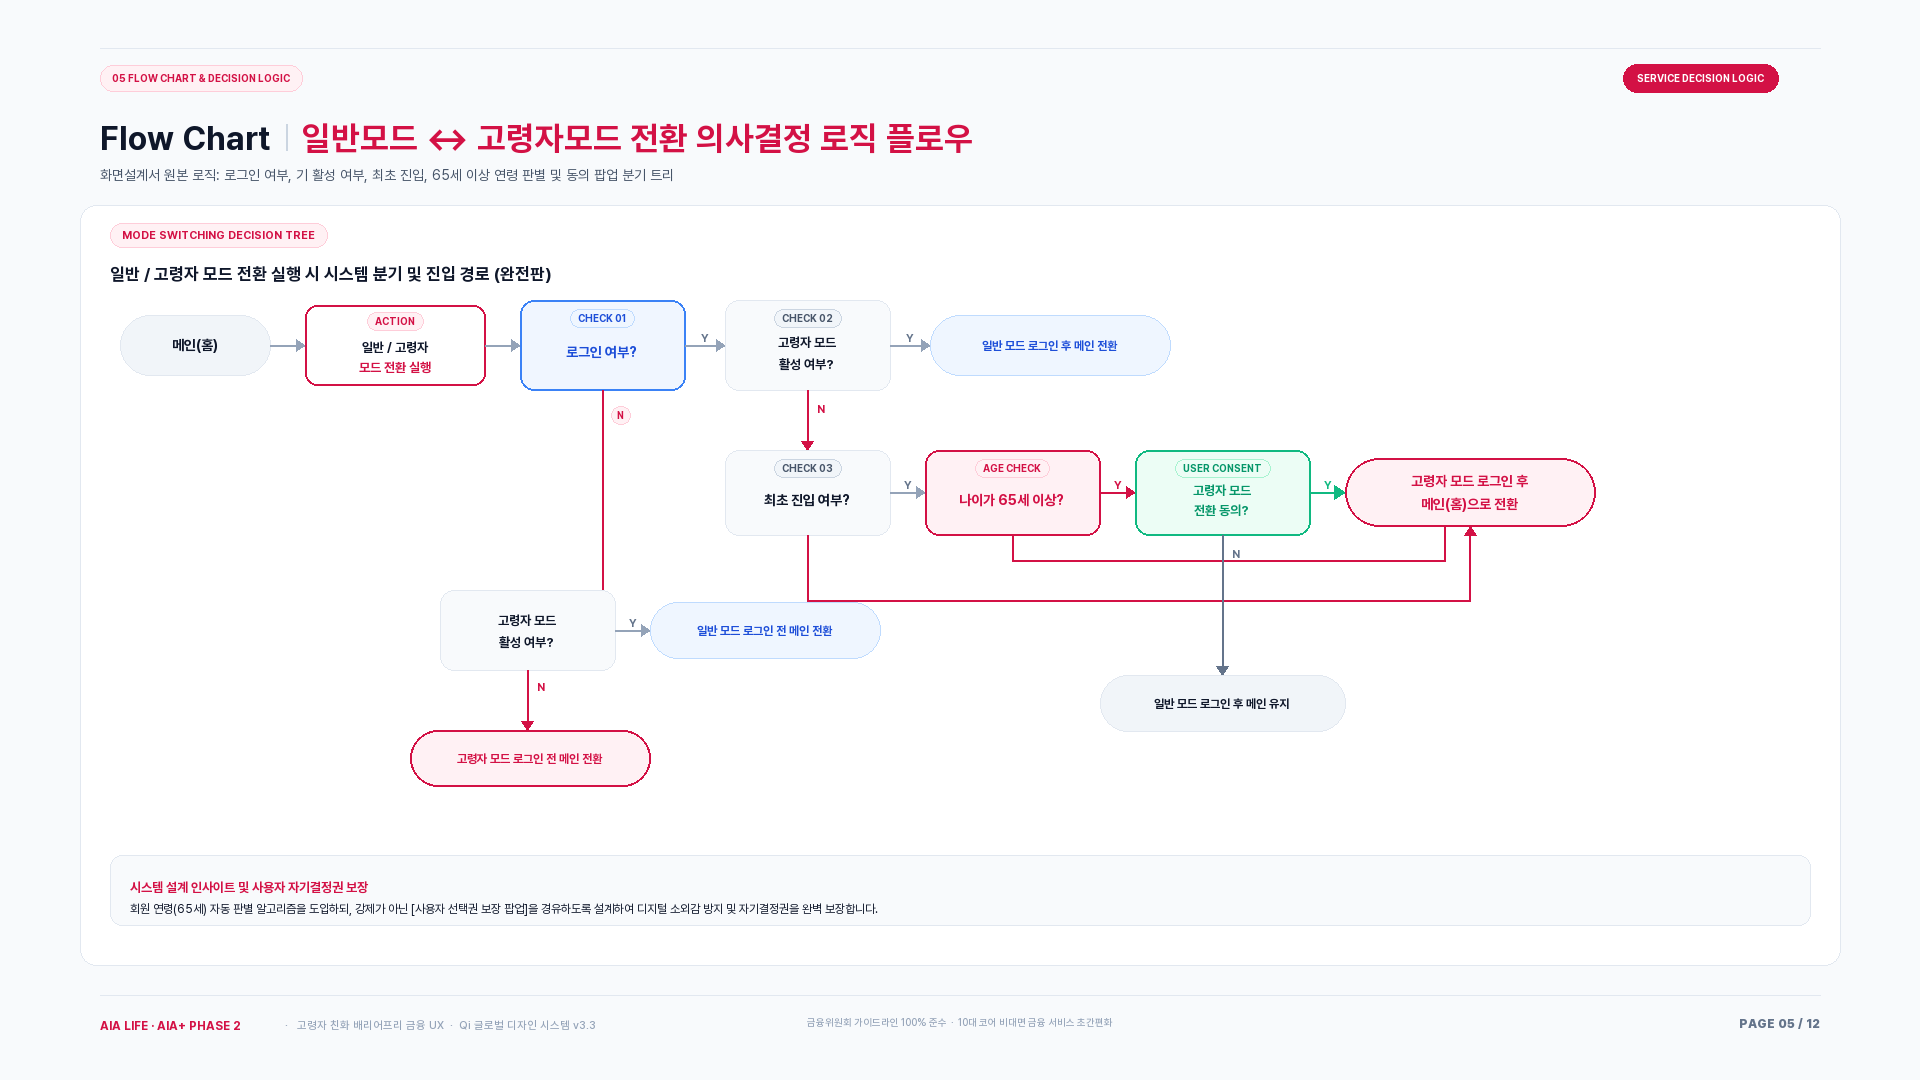
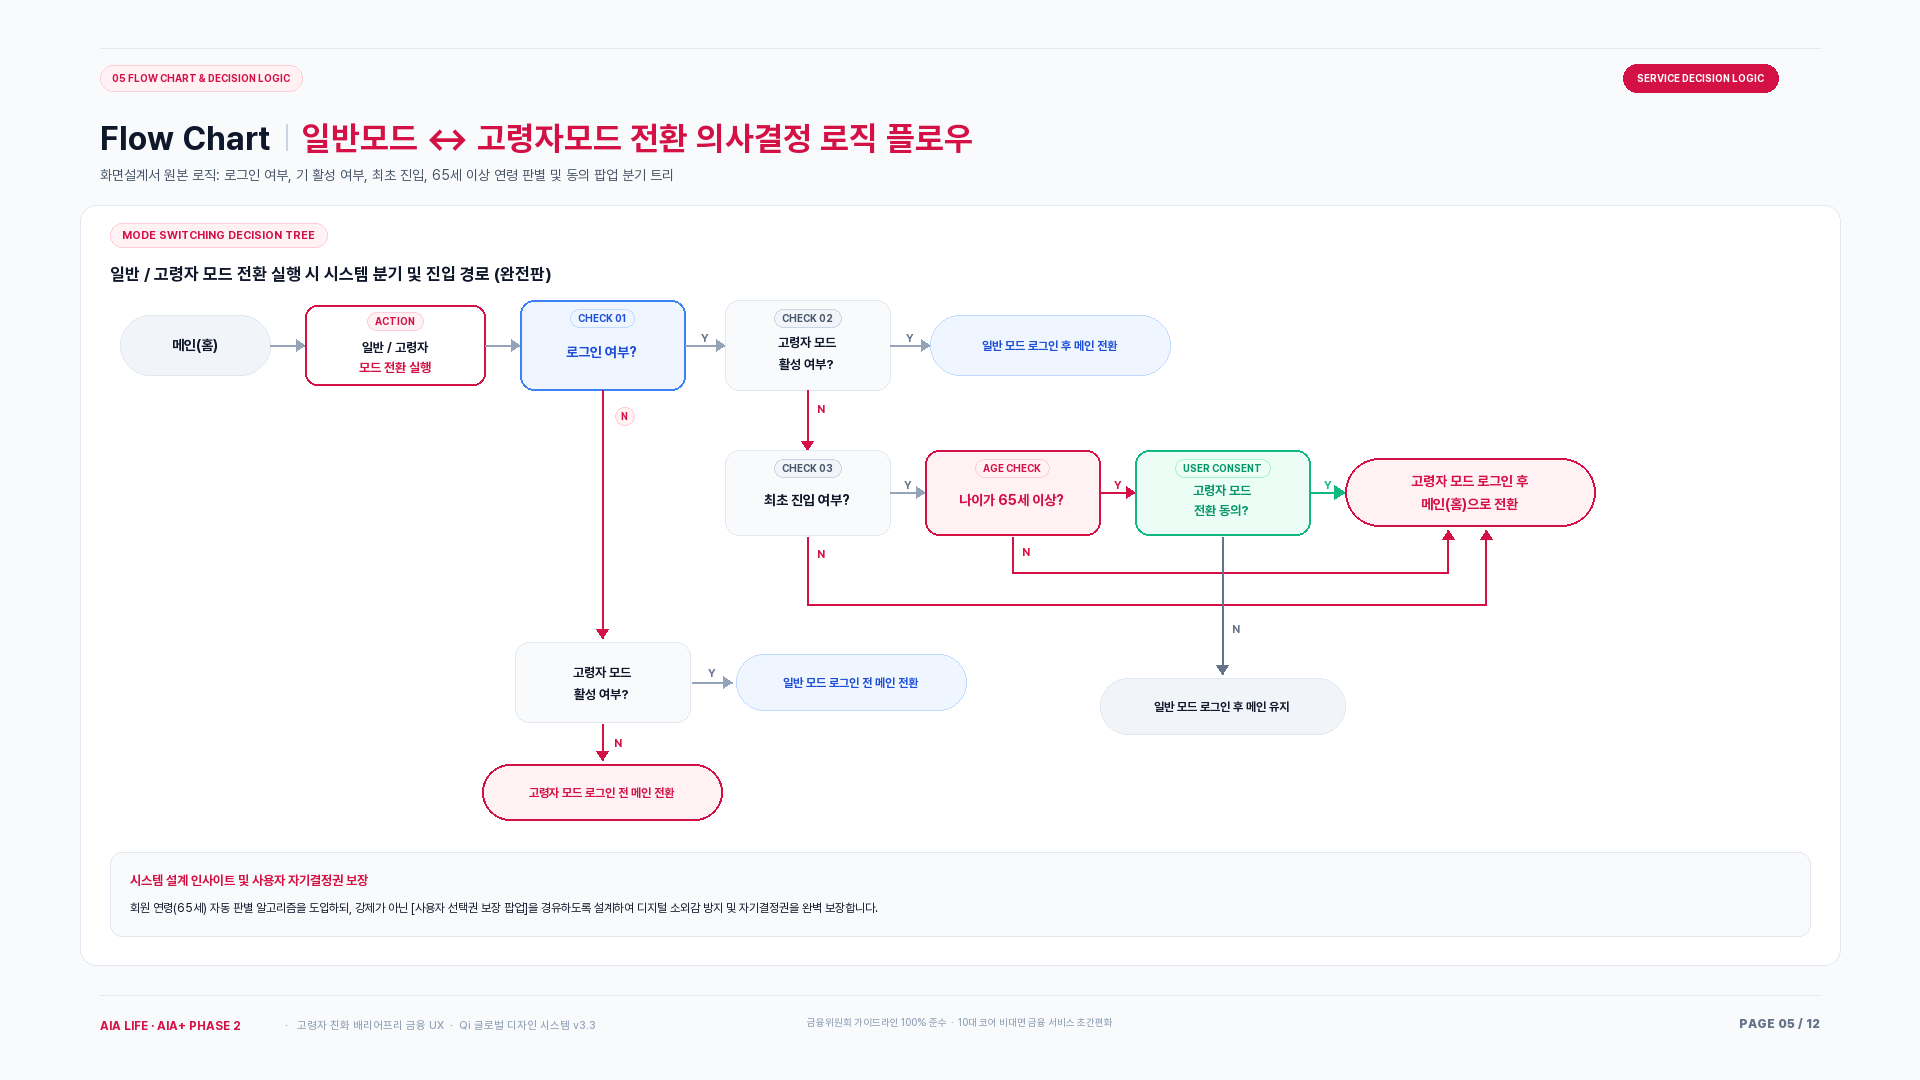
fix: add clean clearance to all flowchart connector lines and balance bottom box padding on AIA+ slide 05

diff --git a/aia_phase2/deck_slides_05_08.py b/aia_phase2/deck_slides_05_08.py
@@ -54,28 +54,30 @@ def make_slide_05():
     draw_pill_badge(draw, cx=d1_x + d1_w//2, cy=d1_y + 18, text="CHECK 01", font=get_font(9.5, 'bold'), theme='blue', pad_x=8, height=18)
     draw.text((d1_x + d1_w//2, d1_y + 52), "로그인 여부?", font=get_font(14.5, 'bold'), fill=(29, 78, 216), anchor='mm')
     
-    # PATH A: 비로그인 분기
-    draw.line([(d1_x + d1_w//2, d1_y + d1_h), (d1_x + d1_w//2, 630)], fill=AIA_RED, width=2)
-    draw_arrow(draw, (d1_x + d1_w//2, 630), (520, 630), col=AIA_RED, width=2, arrow_size=6)
-    draw_pill_badge(draw, cx=d1_x + d1_w//2 + 18, cy=d1_y + d1_h + 25, text="N", font=get_font(10, 'bold'), theme='red', pad_x=6, height=18)
-    
-    d1n_x, d1n_y, d1n_w, d1n_h = 440, 590, 175, 80
+    # PATH A: 비로그인 분기 (centered directly under CHECK 01 with generous clearance)
+    d1_cx = d1_x + d1_w // 2
+    d1n_w, d1n_h = 175, 80
+    d1n_x, d1n_y = d1_cx - d1n_w // 2, 642
+
+    draw_arrow(draw, (d1_cx, d1_y + d1_h), (d1_cx, d1n_y - 4), col=AIA_RED, width=2, arrow_size=6)
+    draw_pill_badge(draw, cx=d1_cx + 22, cy=d1_y + d1_h + 26, text="N", font=get_font(10, 'bold'), theme='red', pad_x=6, height=18)
+
     draw.rounded_rectangle([d1n_x, d1n_y, d1n_x + d1n_w, d1n_y + d1n_h], radius=14, fill=(248, 250, 252), outline=BORDER_LIGHT, width=1)
     draw.text((d1n_x + d1n_w//2, d1n_y + 30), "고령자 모드", font=get_font(13, 'bold'), fill=TEXT_LIGHT_MAIN, anchor='mm')
     draw.text((d1n_x + d1n_w//2, d1n_y + 52), "활성 여부?", font=get_font(13, 'bold'), fill=TEXT_LIGHT_MAIN, anchor='mm')
-    
-    draw_arrow(draw, (d1n_x + d1n_w, d1n_y + d1n_h//2), (d1n_x + d1n_w + 35, d1n_y + d1n_h//2), col=(148, 163, 184), width=2, arrow_size=6)
-    draw.text((d1n_x + d1n_w + 14, d1n_y + d1n_h//2 - 14), "Y", font=get_font(11, 'bold'), fill=(100, 116, 139))
-    
-    out1_x, out1_y, out1_w, out1_h = d1n_x + d1n_w + 35, 602, 230, 56
+
+    draw_arrow(draw, (d1n_x + d1n_w + 2, d1n_y + d1n_h//2), (d1n_x + d1n_w + 42, d1n_y + d1n_h//2), col=(148, 163, 184), width=2, arrow_size=6)
+    draw.text((d1n_x + d1n_w + 18, d1n_y + d1n_h//2 - 16), "Y", font=get_font(11, 'bold'), fill=(100, 116, 139))
+
+    out1_x, out1_y, out1_w, out1_h = d1n_x + d1n_w + 46, d1n_y + 12, 230, 56
     draw.rounded_rectangle([out1_x, out1_y, out1_x + out1_w, out1_y + out1_h], radius=28, fill=(239, 246, 255), outline=(191, 219, 254), width=1)
     draw.text((out1_x + out1_w//2, out1_y + out1_h//2), "일반 모드 로그인 전 메인 전환", font=get_font(12, 'bold'), fill=(29, 78, 216), anchor='mm')
-    
-    draw.line([(d1n_x + d1n_w//2, d1n_y + d1n_h), (d1n_x + d1n_w//2, 715)], fill=AIA_RED, width=2)
-    draw_arrow(draw, (d1n_x + d1n_w//2, 715), (d1n_x + d1n_w//2, 730), col=AIA_RED, width=2, arrow_size=6)
-    draw.text((d1n_x + d1n_w//2 + 10, d1n_y + d1n_h + 10), "N", font=get_font(11, 'bold'), fill=AIA_RED)
-    
-    out2_x, out2_y, out2_w, out2_h = d1n_x - 30, 730, 240, 56
+
+    out2_w, out2_h = 240, 56
+    out2_x, out2_y = d1_cx - out2_w // 2, 764
+    draw_arrow(draw, (d1_cx, d1n_y + d1n_h + 2), (d1_cx, out2_y - 4), col=AIA_RED, width=2, arrow_size=6)
+    draw.text((d1_cx + 12, d1n_y + d1n_h + 14), "N", font=get_font(11, 'bold'), fill=AIA_RED)
+
     draw.rounded_rectangle([out2_x, out2_y, out2_x + out2_w, out2_y + out2_h], radius=28, fill=(255, 241, 244), outline=AIA_RED, width=2)
     draw.text((out2_x + out2_w//2, out2_y + out2_h//2), "고령자 모드 로그인 전 메인 전환", font=get_font(12, 'bold'), fill=AIA_RED, anchor='mm')
     
@@ -130,27 +132,37 @@ def make_slide_05():
     draw.text((goal_x + goal_w//2, goal_y + 23), "고령자 모드 로그인 후", font=get_font(13.5, 'bold'), fill=AIA_RED, anchor='mm')
     draw.text((goal_x + goal_w//2, goal_y + 46), "메인(홈)으로 전환", font=get_font(13.5, 'bold'), fill=AIA_RED, anchor='mm')
     
-    draw.line([(d3_x + d3_w//2, d3_y + d3_h), (d3_x + d3_w//2, 600)], fill=AIA_RED, width=2)
-    draw.line([(d3_x + d3_w//2, 600), (goal_x + goal_w//2, 600)], fill=AIA_RED, width=2)
-    draw_arrow(draw, (goal_x + goal_w//2, 600), (goal_x + goal_w//2, goal_y + goal_h), col=AIA_RED, width=2, arrow_size=6)
-    
-    draw.line([(d4_x + d4_w//2, d4_y + d4_h), (d4_x + d4_w//2, 560)], fill=AIA_RED, width=2)
-    draw.line([(d4_x + d4_w//2, 560), (goal_x + goal_w//2 - 25, 560)], fill=AIA_RED, width=2)
-    draw.line([(goal_x + goal_w//2 - 25, 560), (goal_x + goal_w//2 - 25, goal_y + goal_h)], fill=AIA_RED, width=2)
-    
-    draw.line([(d5_x + d5_w//2, d5_y + d5_h), (d5_x + d5_w//2, 660)], fill=(100, 116, 139), width=2)
-    draw_arrow(draw, (d5_x + d5_w//2, 660), (d5_x + d5_w//2, 675), col=(100, 116, 139), width=2, arrow_size=6)
-    draw.text((d5_x + d5_w//2 + 10, d5_y + d5_h + 12), "N", font=get_font(11, 'bold'), fill=(100, 116, 139))
-    
-    stay_x, stay_y, stay_w, stay_h = d5_x - 35, 675, 245, 56
+    # Return flow lines with clean vertical spacing away from all nodes
+    ret1_y = 572
+    ret2_y = 604
+
+    # CHECK 03 (N) -> Goal
+    draw.line([(d3_x + d3_w//2, d3_y + d3_h + 2), (d3_x + d3_w//2, ret2_y)], fill=AIA_RED, width=2)
+    draw.line([(d3_x + d3_w//2, ret2_y), (goal_x + goal_w//2 + 16, ret2_y)], fill=AIA_RED, width=2)
+    draw_arrow(draw, (goal_x + goal_w//2 + 16, ret2_y), (goal_x + goal_w//2 + 16, goal_y + goal_h + 4), col=AIA_RED, width=2, arrow_size=6)
+    draw.text((d3_x + d3_w//2 + 10, d3_y + d3_h + 12), "N", font=get_font(11, 'bold'), fill=AIA_RED)
+
+    # AGE CHECK (N) -> Goal
+    draw.line([(d4_x + d4_w//2, d4_y + d4_h + 2), (d4_x + d4_w//2, ret1_y)], fill=AIA_RED, width=2)
+    draw.line([(d4_x + d4_w//2, ret1_y), (goal_x + goal_w//2 - 22, ret1_y)], fill=AIA_RED, width=2)
+    draw_arrow(draw, (goal_x + goal_w//2 - 22, ret1_y), (goal_x + goal_w//2 - 22, goal_y + goal_h + 4), col=AIA_RED, width=2, arrow_size=6)
+    draw.text((d4_x + d4_w//2 + 10, d4_y + d4_h + 10), "N", font=get_font(11, 'bold'), fill=AIA_RED)
+
+    # USER CONSENT (N) -> Stay in general mode (cleanly below return lines)
+    stay_x, stay_y, stay_w, stay_h = d5_x - 35, 678, 245, 56
+    draw_arrow(draw, (d5_x + d5_w//2, d5_y + d5_h + 2), (d5_x + d5_w//2, stay_y - 4), col=(100, 116, 139), width=2, arrow_size=6)
+    draw.text((d5_x + d5_w//2 + 10, ret2_y + 18), "N", font=get_font(11, 'bold'), fill=(100, 116, 139))
+
     draw.rounded_rectangle([stay_x, stay_y, stay_x + stay_w, stay_y + stay_h], radius=28, fill=(241, 245, 249), outline=BORDER_LIGHT, width=1)
     draw.text((stay_x + stay_w//2, stay_y + stay_h//2), "일반 모드 로그인 후 메인 유지", font=get_font(12.5, 'bold'), fill=TEXT_LIGHT_MAIN, anchor='mm')
-    
-    sum_y = 855
-    draw.rounded_rectangle([card_x + 30, sum_y, card_x + card_w - 30, sum_y + 70], radius=12, fill=(248, 250, 252), outline=BORDER_LIGHT, width=1)
-    draw.text((card_x + 50, sum_y + 24), "시스템 설계 인사이트 및 사용자 자기결정권 보장", font=get_font(13, 'bold'), fill=AIA_RED)
+
+    # Bottom Summary Box with balanced top/bottom padding
+    sum_y = 852
+    sum_h = 84
+    draw.rounded_rectangle([card_x + 30, sum_y, card_x + card_w - 30, sum_y + sum_h], radius=12, fill=(248, 250, 252), outline=BORDER_LIGHT, width=1)
+    draw.text((card_x + 50, sum_y + 20), "시스템 설계 인사이트 및 사용자 자기결정권 보장", font=get_font(13, 'bold'), fill=AIA_RED)
     sum_desc = "회원 연령(65세) 자동 판별 알고리즘을 도입하되, 강제가 아닌 [사용자 선택권 보장 팝업]을 경유하도록 설계하여 디지털 소외감 방지 및 자기결정권을 완벽 보장합니다."
-    draw.text((card_x + 50, sum_y + 46), sum_desc, font=get_font(11.5, 'regular'), fill=TEXT_LIGHT_MAIN)
+    draw.text((card_x + 50, sum_y + 48), sum_desc, font=get_font(11.5, 'regular'), fill=TEXT_LIGHT_MAIN)
     
     draw_slide_footer(draw, 5, 12, dark_mode=False)
     out_path = os.path.join(OUT_DIR, "slide_05.png")
